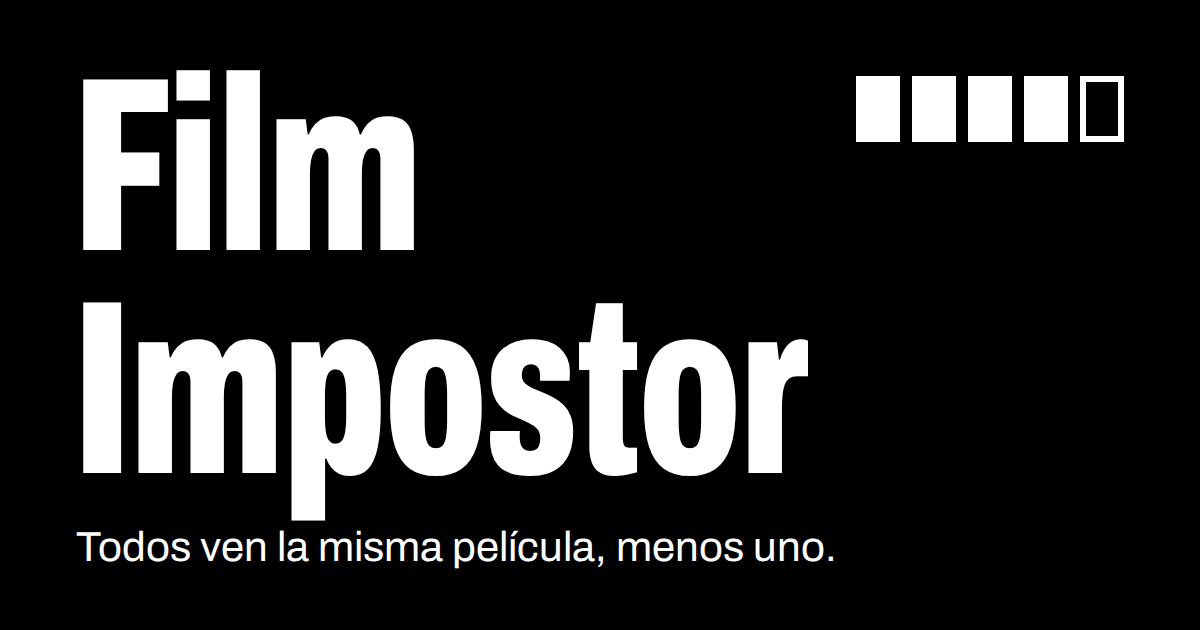
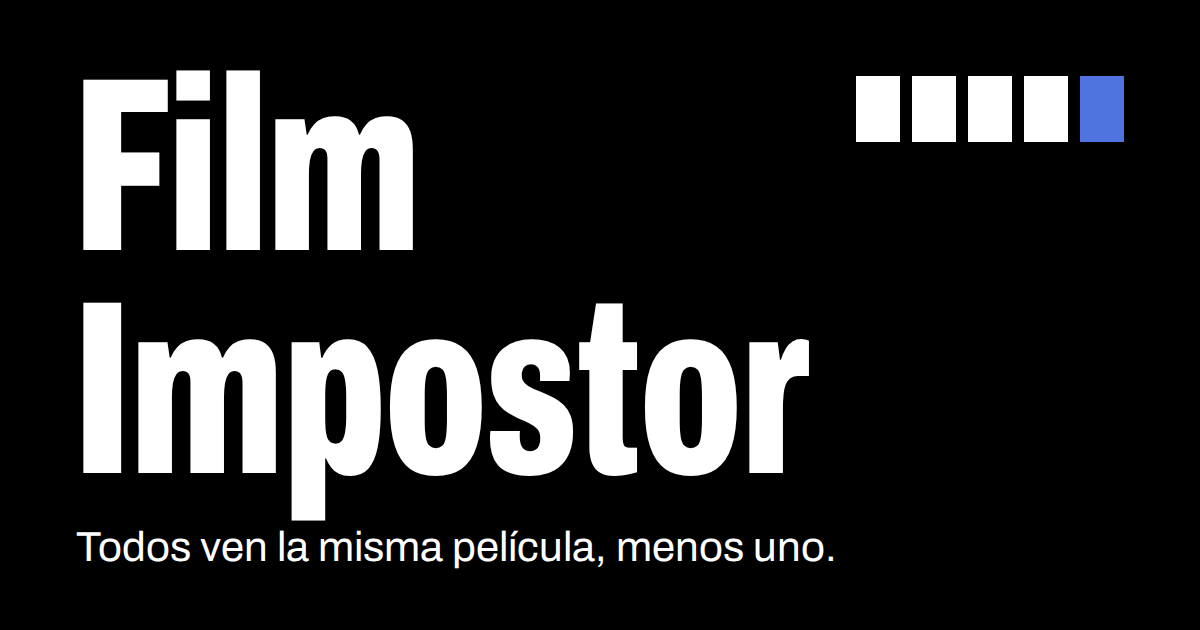
Un solo color propio, el cobalto, para lo secreto: el papel de todos, el hueco del impostor y el llenado de revelar

Changed region(s): [[0.8942, 0.1206, 0.9558, 0.2413], [0.6475, 0.5429, 0.6783, 0.573], [0.2467, 0.2413, 0.2775, 0.2714]]

diff --git a/src/components/PlayerSlots.module.css b/src/components/PlayerSlots.module.css
@@ -1,14 +1,14 @@
 .huecos {
   display: flex;
-  gap: 3px;
+  gap: 4px;
   align-items: flex-end;
-  min-height: 24px;
+  min-height: 28px;
 }
 
 /* Cada jugador es un cartel en miniatura. */
 .huecos i {
-  width: 12px;
-  height: 18px;
+  width: 14px;
+  height: 21px;
   background: var(--ink);
   flex: none;
 }
@@ -23,13 +23,21 @@
 
 /* A quien le toca sobresale de la fila. */
 .huecos i[data-estado="turno"] {
-  height: 24px;
+  height: 28px;
   background: var(--ink);
 }
 
-/* El hueco sin relleno significa siempre «impostor», y por eso no se usa para nada más. */
+/* El cobalto en la fila significa siempre «impostor», y por eso no se usa aquí para nada más. */
 .huecos i[data-estado="impostor"] {
-  height: 24px;
-  background: none;
-  box-shadow: inset 0 0 0 2px var(--ink);
+  height: 28px;
+  background: var(--cobalto);
+}
+
+/* Con doce no caben a este tamaño en un móvil estrecho. */
+.huecos:has(i:nth-child(10)) {
+  gap: 3px;
+}
+
+.huecos:has(i:nth-child(10)) i {
+  width: 11px;
 }

diff --git a/src/app/globals.css b/src/app/globals.css
@@ -1,6 +1,7 @@
 :root {
   color-scheme: light dark;
-  /* Sin color propio: el color lo ponen los carteles. Papel frío y negro de verdad, como un pase en una sala blanca. */
+  /* Papel frío y negro de verdad, y el color lo ponen los carteles. El único propio es el cobalto, la luz de una pantalla
+     en la oscuridad, y marca solo lo secreto: el papel de cada uno, el hueco del impostor y lo que se está llenando. */
   --bg: #f2f3f5;
   --zona: #e5e7ea;
   --relleno: #d8dade;
@@ -10,9 +11,8 @@
   --ink-3: #b4b7bd;
   --line: #d3d5da;
   --on-ink: #ffffff;
-  --hueco: var(--bg);
+  --cobalto: #4f74e0;
   --apagado: 0.34;
-  --cartel: #77797e;
   --margin: 16px;
 }
 
@@ -27,7 +27,6 @@
     --ink-3: #55575c;
     --line: #2a2b2e;
     --on-ink: #000000;
-    --hueco: #000000;
     --apagado: 0.3;
   }
 }
@@ -44,7 +43,6 @@
   --ink-3: #3f4144;
   --line: #2c2d30;
   --on-ink: #000000;
-  --hueco: #000000;
   --apagado: 0.3;
 }
 

diff --git a/src/components/PlayerSlots.tsx b/src/components/PlayerSlots.tsx
@@ -4,13 +4,13 @@ interface Props {
   count: number;
   /** A quién le toca: los anteriores salen vistos y el acento es suyo. */
   current?: number;
-  /** Quién es el impostor: el único hueco de la app. */
+  /** Quién es el impostor: el único de color de la fila. */
   impostor?: number;
   /** Quién da la primera pista en la mesa: también es «a quien le toca». */
   starts?: number;
 }
 
-/** Un cartel en miniatura por jugador, como la pared del inicio: el vacío es siempre el impostor. */
+/** Un cartel en miniatura por jugador, como la pared del inicio: el de color es siempre el impostor. */
 export function PlayerSlots({ count, current, impostor, starts }: Props) {
   return (
     <div className={styles.huecos} aria-hidden>

diff --git a/src/components/TurnScreen.module.css b/src/components/TurnScreen.module.css
@@ -57,8 +57,8 @@
 
 /* Revelado: sube la luz del cartel, sin transición, y las letras son negras. De cerca se lee bien, y de lejos no hay contraste. */
 .turno[data-held] .cartel {
-  background: var(--cartel);
-  border-color: var(--cartel);
+  background: var(--cobalto);
+  border-color: var(--cobalto);
   color: #000;
 }
 
@@ -76,7 +76,7 @@
 }
 
 .turno[data-held] .etiqueta {
-  color: #2c2d30;
+  color: #0c1a4a;
 }
 
 /* Llena el ancho del cartel si puede: lo grande es el nombre porque no es secreto. */
@@ -90,7 +90,7 @@
 }
 
 .turno[data-held] .nombre {
-  color: #5d5f64;
+  color: #2a439a;
 }
 
 /* El mismo tamaño para todos los papeles, y el tope para que no se lea desde el sofá. Lo vigila e2e/partida.spec.ts. */

diff --git a/src/components/PosterWall.module.css b/src/components/PosterWall.module.css
@@ -34,9 +34,9 @@
   transition: opacity 0.18s ease-out, filter 0.18s ease-out;
 }
 
-/* El hueco: falta un cartel, y es lo único de la pared que no se ve. */
+/* El hueco: falta un cartel, y en su sitio está el color de lo secreto. */
 .cartel[data-estado="hueco"] {
-  background-color: var(--hueco) !important;
+  background-color: var(--cobalto) !important;
 }
 
 .cartel[data-estado="hueco"] img {

diff --git a/src/components/TableScreen.module.css b/src/components/TableScreen.module.css
@@ -104,14 +104,13 @@
   content: "";
   position: absolute;
   inset: 0;
-  background: var(--ink);
+  background: var(--cobalto);
   transform: scaleX(0);
   transform-origin: left;
 }
 
 .mantener[data-held] span {
-  color: var(--on-ink);
-  mix-blend-mode: normal;
+  color: #000;
 }
 
 .mantener[data-held]::before {
